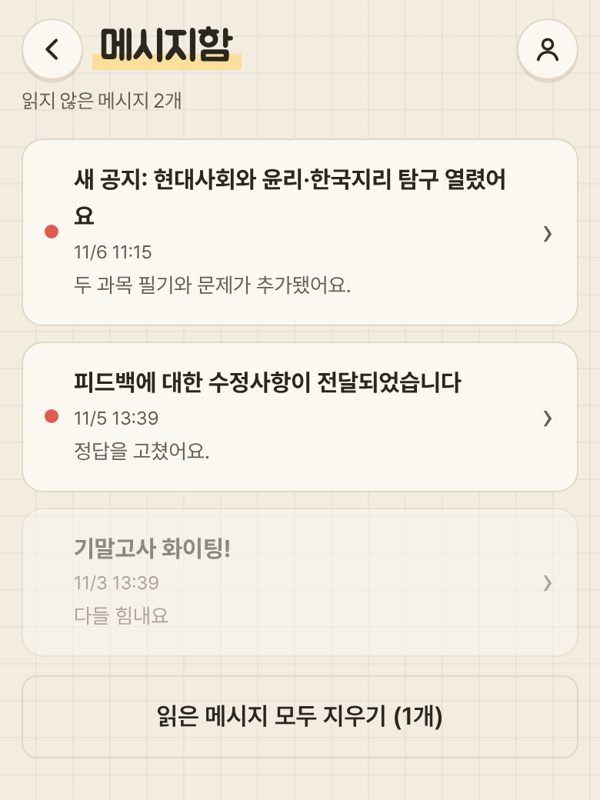
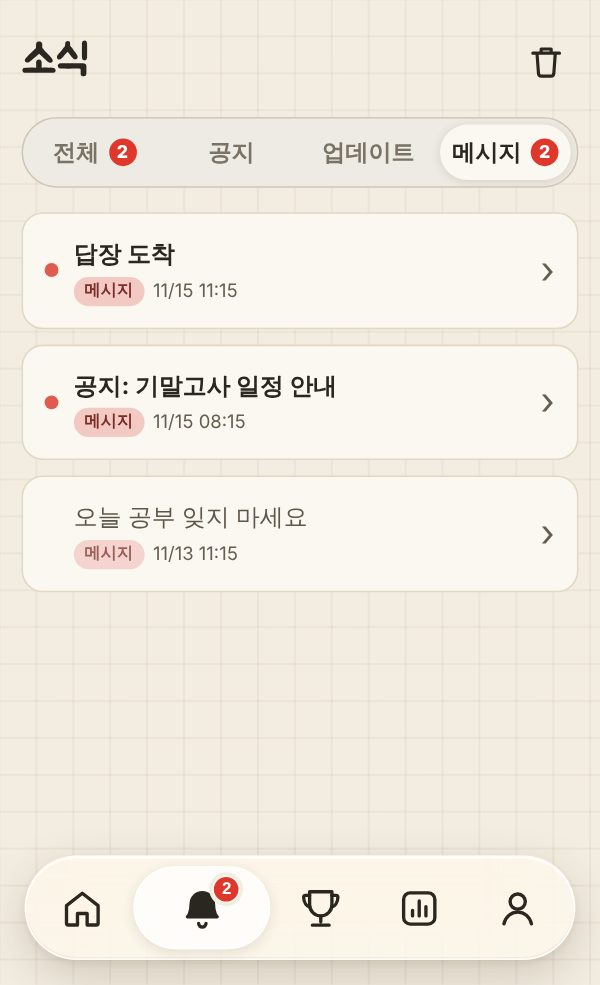
사용법 그림 11장을 지금 화면으로 다시 찍고, 탭바 설명(종·트로피) 갱신 (작업 중)
Claude-Session: https://claude.ai/code/session_01Tyos5u92oq4YZSfddEiBqZ

diff --git a/js/app.js b/js/app.js
@@ -566,15 +566,15 @@ function guide(){const S=(n,t,body,img)=>`<section class="gds" id="gd${n}"><div 
  h+=`<nav class="gdx">${['시작하기','앱 설치','과목 고르기','공부하기','문제 풀기','모의고사','오답노트','통계·달력','공지','메시지함·알림','피드백','프로필'].map((t,i)=>`<a href="#gd${i+1}" onclick="event.preventDefault();document.getElementById('gd${i+1}').scrollIntoView({behavior:'smooth',block:'start'})">${i+1}. ${t}</a>`).join('')}</nav>`;
  h+=S(1,'닉네임으로 시작하기','<p>닉네임과 <b>숫자 4자리 비밀번호</b>를 정해요. 다른 폰에서도 같은 닉네임·비밀번호로 들어오면 기록이 그대로 이어져요.</p><p class="gdw">비밀번호를 잊으면 기록을 찾을 수 없어요.</p>','g_start');
  h+=S(2,'앱으로 설치하기',`<p>홈 화면에 추가하면 앱처럼 쓸 수 있어요. <b>전체 통계, 공부 달력, 폰 알림</b>은 앱에서만 돼요.</p><ul><li>아이폰: 사파리 <b>공유</b> → <b>홈 화면에 추가</b></li><li>안드로이드: 크롬 메뉴 <b>⋮</b> → <b>앱 설치</b></li></ul>${isApp()?'<p class="gdok">지금 앱으로 쓰고 있어요 👍</p>':'<button class="b gdbt" onclick="installApp()">앱으로 설치하기</button>'}`);
- h+=S(3,'과목 고르기','<p>풍산 학습 첫 화면에서 과목을 눌러요. 진행도 막대가 있는 과목이 열린 과목이고, <b>준비 중</b> 과목은 곧 열려요.</p><p>화면 맨 아래 탭바: <b>집</b>(학습) · <b>확성기</b>(공지) · <b>편지봉투</b>(메시지함) · <b>막대</b>(전체 통계) · <b>사람</b>(프로필)</p><p>탭마다 위에 칩(내 과목·다른 과목·전체 등)이 있어요. 칩을 누르거나 화면을 옆으로 밀면 다음 칩으로, 마지막 칩에서 더 밀면 옆 탭으로 넘어가요.</p>','g_subj');
+ h+=S(3,'과목 고르기','<p>풍산 학습 첫 화면에서 과목을 눌러요. 진행도 막대가 있는 과목이 열린 과목이고, <b>준비 중</b> 과목은 곧 열려요.</p><p>화면 맨 아래 탭바: <b>집</b>(학습) · <b>종</b>(소식) · <b>트로피</b>(리더보드) · <b>막대</b>(전체 통계) · <b>사람</b>(프로필)</p><p><b>트로피</b>(리더보드)에서는 친구들과 공부 시간·연속 학습·문제 수 순위를 비교하고, 맨 위 카드에서 내 순위를 볼 수 있어요.</p><p>탭마다 위에 칩(내 과목·다른 과목·전체 등)이 있어요. 칩을 누르거나 화면을 옆으로 밀면 다음 칩으로, 마지막 칩에서 더 밀면 옆 탭으로 넘어가요.</p>','g_subj');
  h+=S(4,'공부하기 (필기)','<p>과목에 들어가 <b>공부하기</b>를 누르면 교과서 핵심을 정리한 필기가 나와요. <b>형광펜</b>은 꼭 외울 내용, 그림·지도·표는 교과서 자료를 다시 정리한 거예요.</p><ul><li><b>교과서 원문 보기</b>: 그 단원의 교과서 쪽을 바로 볼 수 있어요.</li><li>필기 맨 아래 버튼으로 <b>그 단원 문제</b>를 바로 풀 수 있어요.</li><li>화면 아래 <b>이어서 공부하기</b> 버튼을 누르면 하던 곳부터 이어서 볼 수 있어요.</li></ul>',['g_learn','g_note']);
  h+=S(5,'문제 풀기','<p><b>문제 풀기</b>의 <b>단원별 문제</b>에서 단원을 펼쳐 골라요. 중단원마다 <b>기본 문제</b>와 자료를 읽고 푸는 <b>실전 문제</b>가 있어요.</p><p>다 풀고 <b>제출</b>하면 정답과 해설이 나와요. <b>처음 푼 결과만</b> 진행도와 통계에 들어가요.</p>','g_quiz');
  h+=S(6,'모의고사','<p>과목마다 <b>5회분</b>이 있어요. 회차당 <b>25문항 내외 · 50분 · 100점 만점</b>이고, 학력평가처럼 자료·사례·&lt;보기&gt;를 분석하는 문제예요.</p><ul><li>그 과목 <b>문제를 모두 풀면</b> 열려요. (11월 23일부터는 모두 열려요.)</li><li>위쪽에 <b>남은 시간</b>이 나오고, 50분을 넘기면 초과 시간이 표시돼요. 제출하면 점수와 오답이 바로 나와요.</li><li>모의고사 화면에서 회차 목록과 평균·최고 점수·유형별 정답률을 함께 볼 수 있어요. 공부와 문제를 다 끝내 열리면 과목 홈 맨 위로 올라와요.</li></ul>','g_mock');
  h+=S(7,'오답노트','<p>틀린 문제는 과목 홈 <b>복습</b>의 <b>오답노트</b>에 모이고, 헷갈려서 별표를 누른 문제는 <b>별표 문제</b>에 모여요. 다시 풀어서 맞히면 <b>고친 오답</b>으로 바뀌어요. <b>취약</b> 표시가 붙은 유형은 오답부터 고치는 게 좋아요.</p>','g_wrong');
  h+=S(8,'전체 통계 · 공부 달력','<p>아래 탭바의 <b>막대</b>(전체 통계)는 칩으로 나뉘어 있어요. <b>요약</b>은 오늘의 목표·기말 진도·이번 주 공부, <b>기록</b>은 친구들과 비교·요일별 패턴·나의 기록, <b>성적</b>은 정답률·모의고사 점수·약점 유형, <b>과목별</b>은 과목마다 자세히, <b>달력</b>은 날짜별 공부 시간이에요. (앱 전용)</p><p><b>오늘의 목표</b>는 하루 첫 접속 때 정해요. 정하면 그날은 바꿀 수 없고, 안 정했으면 다시 들어올 때마다 물어봐요.</p>','g_stats');
- h+=S(9,'공지','<p>아래 탭바의 <b>확성기</b>(공지)에서 시험 안내는 <b>공지</b> 칩, 앱 소식은 <b>업데이트</b> 칩에 모여 있어요. 아직 안 열어 본 글이 있으면 <b class="gdr">빨간 점</b>이 생겨요. 글이 마음에 들면 날짜 옆 <b>하트</b>를 눌러 주세요.</p>','g_board');
- h+=S(10,'메시지함 · 알림','<p><b>편지봉투</b>를 누르면 메시지함이에요. 새 공지 알림, 피드백 답장, 관리자가 보낸 알림이 와요. 숫자는 읽지 않은 메시지 수예요. 휴지통을 누르면 골라서 지울 수 있어요.</p><p>프로필에서 <b>폰 알림</b>을 켜 두면 메시지가 올 때 폰으로도 알려 줘요.</p>','g_inbox');
- h+=S(11,'피드백 보내기','<p>정답이 이상하거나 불편한 점, 추가했으면 하는 과목이 있으면 프로필 오른쪽 위 <b>피드백</b> 글자를 눌러 유형을 골라 보내 주세요. 고쳐지면 메시지함으로 답장이 와요.</p>');
+ h+=S(9,'공지','<p>아래 탭바의 <b>종</b>(소식)에서 시험 안내는 <b>공지</b> 칩, 앱 소식은 <b>업데이트</b> 칩에 모여 있어요. 아직 안 열어 본 글이 있으면 <b class="gdr">빨간 점</b>이 생겨요. 글이 마음에 들면 날짜 옆 <b>하트</b>를 눌러 주세요.</p>','g_board');
+ h+=S(10,'메시지함 · 알림','<p><b>종</b>(소식)의 <b>메시지</b> 칩이 메시지함이에요. 새 공지 알림, 피드백 답장, 관리자가 보낸 알림이 와요. 숫자는 읽지 않은 메시지 수예요. 휴지통을 누르면 골라서 지울 수 있어요.</p><p>프로필에서 <b>폰 알림</b>을 켜 두면 메시지가 올 때 폰으로도 알려 줘요.</p>','g_inbox');
+ h+=S(11,'피드백 보내기','<p>정답이 이상하거나 불편한 점, 추가했으면 하는 과목이 있으면 프로필 오른쪽 위 <b>피드백</b> 글자를 눌러 유형을 골라 보내 주세요. 고쳐지면 소식의 메시지 칩으로 답장이 와요.</p>');
  h+=S(12,'프로필','<p>아래 탭바의 <b>사람</b>(프로필)에서 닉네임·비밀번호를 바꾸고 폰 알림을 켤 수 있어요. 그날 공부를 안 하면 저녁에 오는 <b>공부 알림</b>도 여기서 끄고 켤 수 있어요. 오른쪽 위 <b>피드백</b> 버튼을 누르면 피드백을 보낼 수 있어요.</p>','g_profile');
  h+=`<div class="row"><button class="b" onclick="subjects()">학습하러 가기</button></div>`;show(h)}
 
